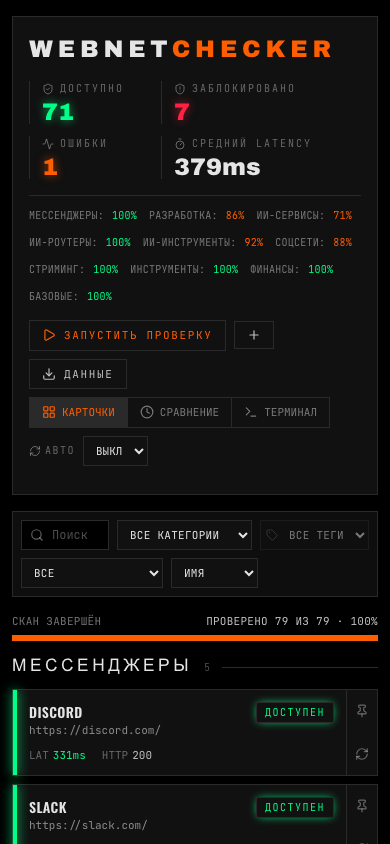
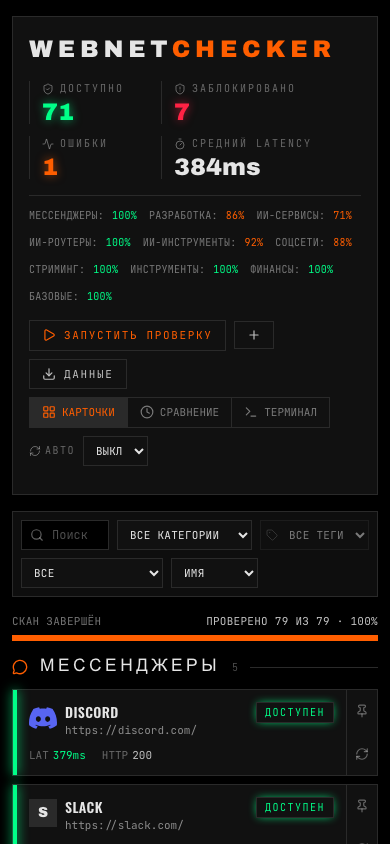
docs: скриншоты с бренд-логотипами и актуальный README
- все 5 скриншотов пересняты scripts/screenshots.mjs на prod-сборке
  после реального скана 79 целей;
- README: фича бренд-логотипов (Simple Icons, WCAG-guard), npm run logos,
  73 теста, предупреждение про allowedDevOrigins (localhost vs 127.0.0.1),
  BrandLogo в архитектуре; план сессии обновлён

diff --git a/.zcode/plans/plan-sess_1853f54d-c017-47ad-9fdd-dc2eb15446e4.md b/.zcode/plans/plan-sess_1853f54d-c017-47ad-9fdd-dc2eb15446e4.md
@@ -1,50 +1,34 @@
-# WebNetChecker: фиксы + документация + скриншоты + апгрейд пакетов
+# Бренд-логотипы в карточках WebNetChecker
 
-Решения согласованы: DEPLOY.md — **Vercel + Docker/VPS**; SCAN_API_KEY — **прокси-роут `/api/scan/run`**; тег-фильтр — **добавляем в UI**; **git init** перед правками. Порядок: пакеты → фиксы по спринтам → скриншоты/README/DEPLOY → Obsidian → финальные гейты. Скриншоты делаем ПОСЛЕ фиксов UI, чтобы они показывали исправленный интерфейс.
+**Согласовано:** фирменные цвета логотипов (с luminance-guard для тёмных на тёмном), кастомные цели без иконки — буква-аватар; favicon-прокси не делаем (ноль новых сетевых поверхностей, CSP не трогаем — SVG инлайном).
 
-## Этап 0 — Базовая линия (~15 мин)
-1. `git init`, стартовый коммит «baseline: аудит 2026-10-03» (сейчас код чистый — идеальная точка отката). Убрать мусор из коммита: `.next_old/` удалить (и из диска), `.next*/`, `tsconfig.tsbuildinfo` — в `.gitignore`.
-2. Обновление пакетов: `npm update` внутри диапазонов (возьмёт **next 16.3.8 — security-патчи 16.3.6+16.3.8**, zod 4.6.5, undici 8.11.2, vitest 5.0.3, @playwright/test 1.63.0, TS/eslint — последние 5.x/9.x) + `lucide-react@1.50.0` (мажор 0.x→1.x; все импортированные иконки проверит typecheck). **Не берём мажоры** TypeScript 7.0 и ESLint 10 — Next 16.3 валидирован под 5.x/9.x, риск неоправдан.
-3. Сразу же фикс `#wnc-eslint-noise`: `.next_old/**`, `.omo/**` в eslint ignores — гейт линта оживёт для всех следующих этапов.
-4. Гейты: `typecheck / lint / test / build` → коммит «chore: upgrade deps».
+## Шаг 0 — Верификация источника (честно)
+Устанавливаем `simple-icons` как **devDependency** и делаем источником истины **локальный npm-пакет** (офлайн, авторитетный) — CDN-эхо в этой сессии были противоречивыми, поэтому CDN не используем вовсе. Скрипт отчётит полный список «покрыто / не покрыто» (ожидаю пробелы среди AI-брендов: OrcaRouter, Requesty, Suno, Runway, Character.AI, Poe, Midjourney и др. — все они изящно уходят в букву-аватар).
 
-## Этап 1 — Спринт А: безопасность и гейты (~1.5 ч, коммит на каждый фикс)
-1. **🔴 `#wnc-xff-bypass`** — `getClientKey`: env `TRUST_PROXY` (по умолчанию `0`): при `1` (за nginx/Vercel) берём **последнее** значение XFF-цепочки, при `0` — XFF не доверенный. В обоих случаях добавляем **глобальный резервный бакет** `RATE_LIMIT_GLOBAL` (дефолт 60/мин): подмена заголовков вращает пер-ключи, но глобальный кап не обойти. Unit-тесты на оба бакета + smoke-curl из аудита (11-й запрос с разными XFF → 429).
-2. **`#wnc-key-ui-gap`** — рефактор: логика POST `/api/scan` переезжает в `src/lib/checker/scan-handler.ts`; новый роут `/api/scan/run` (same-origin проверка + ключ подставляется серверно, не покидает сервер); `useScan` переключается на `/api/scan/run`. UI работает при любой конфигурации ключа.
-3. **`#wnc-latest-leak`** — `Cache-Control: no-store` на `/latest`; в глобальный кэш пишем **только результаты seed-целей** (фильтр по множеству `SEED_TARGETS` при `cache.set`): кастомные цели больше не утекают между посетителями.
-4. **`#wnc-green-batch`** — `timingSafeEqual` для сравнения ключа; флаг `closed` из `cancel()` перед `enqueue` в стриме; `AbortError` не ретраится как timeout; замер latency до drain тела.
-5. **`#wnc-env-docs-drift`** — `opengraph-image.tsx` → `runtime = "nodejs"`; README/env.example: `SCAN_MAX_TARGETS=200` (код оставляем); «no any» станет правдой; в «Возможности» — импорт списка целей.
-6. Гейты → коммит.
+## Шаг 1 — Данные (генерация, коммитится)
+- `scripts/generate-brand-logos.mjs`: читает хосты сид-каталога (`services.ts`) + ручной маппинг хост→slug (`brand-logo-slugs.ts`, ~79 записей), резолвит через установленный пакет и генерирует `src/lib/config/brand-logos.generated.ts` — **только реально существующие** иконки: `{ title, hex, path }` по хосту.
+- Скрипт идемпотентен, запуск `npm run logos` при изменении каталога; непокрытые — в stdout и `.scratch/`.
+- Никаких barrel-импортов в рантайме (правило `bundle-barrel-imports`) — сгенерированный файл содержит только использованные иконки.
 
-## Этап 2 — Спринт Б: целостность UI (~2 ч)
-1. **`#wnc-retry-abort`** — guard `isScanning` в `useAutoRefresh` (тик пропускается пока идёт скан); retry/сравнение — изолированный контроллер, не трогающий общий скан и общий прогресс.
-2. **`#wnc-history-poll`** — убрать опрос 500 мс; `beginScan` снапшотит URL-ы скана, история пишется один раз по завершении потока со скоупом этого скана.
-3. **`#wnc-tagfilter-dep`** — `tagFilter` в deps `useMemo`; селект тегов в `FilterBar` (уникальные теги из целей). 
-4. **`#wnc-rejected-lost`** — событие `{ type: "rejected", items }` в `ScanEvent` + панель «Отклонено N: url — причина»; заодно отображение `done.aborted` («скан прерван»).
-5. **`#wnc-card-store`** — узкие селекторы в `ServiceCard` (history[url], togglePin, цель через Map) — убирает ~3600 лишних рендеров за скан.
-6. Unit/e2e-тесты на изменённое; гейты → коммит.
+## Шаг 2 — Компоненты
+- `BrandLogo.tsx`: inline SVG `viewBox="0 0 24 24"`, `fill` = фирменный hex; **luminance-guard**: относительная яркость ниже порога (≈0.35) → серебро `--color-silver` (кейс Apple/GitHub: тёмный логотип на тёмном не теряется); `aria-hidden`.
+- `LetterAvatar.tsx`: первая буква имени, фон из палитры дашборда по хешу хоста (neon-dim/ok-dim/blocked-dim/steel), тот же размер.
+- `resolveBrandLogo(host)` → BrandLogo | LetterAvatar.
 
-## Этап 3 — Спринт В: a11y, перф, полировка (~2.5 ч)
-1. **`#wnc-a11y-dialog`** — Escape + ловушка фокуса + блокировка скролла в диалоге; закрытие меню по Escape/клику-вне; тултип ошибки с фокусом; динамический aria-label pin («Открепить»).
-2. **`#wnc-import-crash`** — Zod-схема на импорт JSON/CSV (переиспользуем `targetSchema`), отчёт «добавлено N, отбраковано M».
-3. **`#wnc-terminal-ok`** — единая `terminalLine` (лейбл статуса вместо «OK»), удалить дубль из стора; **`#wnc-terminal-growth`** — кап лога 500 строк + `content-visibility`.
-4. **`#wnc-progress-initial`** — стейт «Ожидание запуска» до первого скана.
-5. **`#wnc-seed-dead`** — удалить мёртвый `/api/seed` (+ README/архитектура); **`#wnc-bulk-limit`** — кап импорта = `NEXT_PUBLIC_SCAN_MAX_TARGETS` (дефолт 200) + валидация до добавления.
-6. **`#wnc-repo-hygiene`** — `import type`, Map вместо find, type predicate в StatsHeader, Zod-валидация hydrate-ответа, дедуп нормализации сидов.
-7. Гейты → коммит.
+## Шаг 3 — Интеграция
+- `ServiceCard`: логотип 28px слева от имени.
+- `CategorySection`: lucide-иконка категории в заголовке из уже существующего поля `CATEGORIES.icon` — заодно закрывает документированный задел «иконки категорий».
+- `ComparisonView`: 16px логотипы в списке сервисов.
+- `TerminalView` не трогаем (там статусные эмодзи).
 
-## Этап 4 — Скриншоты + README + DEPLOY.md (~2 ч)
-1. Скрипт `scripts/screenshots.mjs` (Playwright, chromium): поднимает собранное приложение, запускает реальный скан каталога, снимает: дашборд-карточки, терминальный режим, сравнение (2 выбранные цели), диалог добавления, мобильный вид 390×844 → `docs/screenshots/*.png`.
-2. **README.md** — реструктурируем: hero-скриншот, возможности, скриншоты режимов, быстрый старт, env-таблица (актуальная, с TRUST_PROXY/RATE_LIMIT_GLOBAL), архитектура, деплой-ссылка на DEPLOY.md, политика апгрейдов.
-3. **DEPLOY.md** (создаём): раздел Vercel (env, Upstash, домен) + раздел Docker/VPS: Dockerfile (output standalone) + `.dockerignore` + `docker-compose.yml` + nginx-сниппет с X-Forwarded-For и `TRUST_PROXY=1`, systemd-альтернатива, бэкапы, обновления.
-4. Гейты → коммит «docs».
+## Шаг 4 — Качество
+- Unit-тесты: известный хост → логотип; неизвестный → аватар; luminance-guard (чистый `#000000` → серебро).
+- Бандл: сравнить размер первой загрузки до/после в выводе `next build` (цель — рост < ~30KB gzip).
+- Гейты: typecheck / lint / test / build / e2e.
 
-## Этап 5 — Obsidian: полная документация проекта (~1.5 ч)
-1. Создать по образцу LLMRouter: **01_Фичи** (каталог функций с состоянием), **04_Архитектура** (ядро checker, поток данных NDJSON, SSRF-схема, решения/компромиссы — со ссылками на файл:строка), **05_Деплой** (сводка + env-таблица, ссылка на DEPLOY.md), **10_Ранбуки** (гейты, smoke-команды curl, процедура апгрейда пакетов, переснятие скриншотов).
-2. Обновить: **02_Баги** (закрытия ✅ с датами), **03_План** (чекбоксы спринтов), **00_Индекс** (карта + паспорт состояния: версии, гейты, тесты), **08_Журнал_работ** (записи этапов).
-3. Иконки новым заметкам, проверка через Obsidian CLI.
+## Шаг 5 — Документация
+- README: секция «Логотипы» (Simple Icons; атрибуция — логотипы являются торговыми марками соответствующих владельцев, набор иконок CC0), переснятие скриншотов (`node scripts/screenshots.mjs`), свежий hero-скрин.
+- Obsidian: `01_Фичи` (+фича, закрыть задел «иконки категорий»), `04_Архитектура` (генерация + luminance-guard), `00_Индекс` (паспорт), `08_Журнал` (запись).
+- Коммиты: фича → тесты/гейты → скриншоты/доки.
 
-## Этап 6 — Финальная приёмка
-Все гейты (`typecheck/lint/test/build/e2e` + smoke curl + проверка скриншотов), финальный коммит, резюме с перечнем закрытых багов. Obsidian-коммит — по вашей просьбе (правило ваулта: push только явно).
-
-**Оценка суммарно: ~7–8 часов работы.** После каждого этапа — отчёт в чат с результатами гейтов.
+**Оценка: ~1.5–2 ч.**

diff --git a/README.md b/README.md
@@ -14,12 +14,12 @@
 
 ## Режимы интерфейса
 
-| Карточки | Терминал | Сравнение |
-| --- | --- | --- |
+| Карточки                                          | Терминал                                             | Сравнение                                            |
+| ------------------------------------------------- | ---------------------------------------------------- | ---------------------------------------------------- |
 | ![Карточки](docs/screenshots/dashboard-cards.png) | ![Терминал](docs/screenshots/dashboard-terminal.png) | ![Сравнение](docs/screenshots/dashboard-compare.png) |
 
-| Диалог добавления целей | Мобильный вид |
-| --- | --- |
+| Диалог добавления целей                            | Мобильный вид                                       |
+| -------------------------------------------------- | --------------------------------------------------- |
 | ![Диалог](docs/screenshots/add-targets-dialog.png) | ![Мобильный](docs/screenshots/dashboard-mobile.png) |
 
 ## Возможности
@@ -28,7 +28,7 @@
 - **NDJSON-стриминг в реальном времени** — карточки обновляются по мере завершения каждого чека; обрыв соединения корректно останавливает скан на сервере.
 - **SSRF-защита уровня DNS** — undici Agent с валидацией каждого разрешённого адреса в момент соединения (закрывает DNS-rebinding), блокировка приватных диапазонов, cloud metadata, localhost. Редиректы не следуются.
 - **Двухуровневый rate limiting** — пер-клиент (10/мин) + глобальный резервный бакет (60/мин), который не обойти ротацией `X-Forwarded-For`.
-- **Тёмный техно-дашборд** — карточки со статусами и sparkline latency, терминальный режим, сравнение двух целей, фильтры (категория, тег, статус), поиск, сортировка.
+- **Тёмный техно-дашборд** — карточки со статусами и sparkline latency, бренд-логотипы сервисов и иконки категорий (генерируются из [Simple Icons](https://simpleicons.org/) в билд-тайм, без внешних запросов в рантайме; тёмные логотипы осветляются по WCAG-люминанс), терминальный режим, сравнение двух целей, фильтры (категория, тег, статус), поиск, сортировка.
 - **Seed-каталог 79 сервисов** в 11 категориях + свои цели: по одной, списком или из `.txt/.csv`, импорт/экспорт JSON/CSV.
 - **Изолированные мини-сканы** — «перепроверить» и «сравнить» не прерывают общий скан; автообновление (выкл / 30 с / 1 мин / 5 мин) ждёт завершения текущего скана.
 - **История проверок** в localStorage (последние 20 прогонов, скоуп — конкретный скан).
@@ -46,43 +46,49 @@ npm run dev
 
 Откройте <http://localhost:3000> и нажмите **«Запустить проверку»**.
 
+> **Важно именно `localhost`, а не `127.0.0.1` или LAN-IP?** Next 16 блокирует dev-ресурсы
+> (HMR, чанки) для хостов вне `allowedDevOrigins` — страница отрендерится, но не гидратируется
+> и кнопки не будут реагировать. Хосты для dev перечислены в `next.config.ts`
+> (`allowedDevOrigins: ["127.0.0.1"]`); добавьте туда свой LAN-IP при доступе с других устройств.
+
 ## Команды
 
-| Команда | Описание |
-| --- | --- |
-| `npm run dev` | Dev-сервер (Turbopack) |
-| `npm run build` / `npm start` | Продакшн-сборка и запуск |
-| `npm run typecheck` | `tsc --noEmit` |
-| `npm run lint` / `lint:fix` | ESLint 9 (flat config) |
-| `npm test` | Unit-тесты (Vitest, 61 тест) |
-| `npm run test:e2e` | E2E (Playwright, chromium) |
-| `npm run format` | Prettier |
-| `node scripts/screenshots.mjs` | Переснятие скриншотов README |
+| Команда                        | Описание                                                                                |
+| ------------------------------ | --------------------------------------------------------------------------------------- |
+| `npm run dev`                  | Dev-сервер (Turbopack)                                                                  |
+| `npm run build` / `npm start`  | Продакшн-сборка и запуск                                                                |
+| `npm run typecheck`            | `tsc --noEmit`                                                                          |
+| `npm run lint` / `lint:fix`    | ESLint 9 (flat config)                                                                  |
+| `npm test`                     | Unit-тесты (Vitest, 73 теста)                                                           |
+| `npm run test:e2e`             | E2E (Playwright, chromium)                                                              |
+| `npm run format`               | Prettier                                                                                |
+| `npm run logos`                | Регенерация бренд-логотипов из simple-icons (`src/lib/config/brand-logos.generated.ts`) |
+| `node scripts/screenshots.mjs` | Переснятие скриншотов README (нужен `npm run build`)                                    |
 
 ## Переменные окружения
 
-| Переменная | По умолчанию | Описание |
-| --- | --- | --- |
-| `CHECK_TIMEOUT_MS` | `3000` | Таймаут одного HTTP-чека (500–30000) |
-| `SCAN_MAX_TARGETS` | `200` | Максимум целей за один скан (1–1000) |
-| `SCAN_CONCURRENCY` | `10` | Пул конкурентности (1–32) |
-| `RATE_LIMIT_SCANS` | `10` | Сканов в минуту с одного клиента |
-| `RATE_LIMIT_WINDOW_MS` | `60000` | Окно rate limit (мс) |
-| `RATE_LIMIT_GLOBAL` | `60` | Глобальный резервный бакет (сканов/мин на процесс) |
-| `TRUST_PROXY` | `0` | `1` — за доверенным прокси (nginx/Vercel): клиент = последний элемент `X-Forwarded-For` |
-| `CHECK_RETRIES` | `1` | Ретраи при таймауте (0–3) |
-| `NEXT_PUBLIC_SITE_URL` | `http://localhost:3000` | Для metadata / OG / sitemap |
-| `NEXT_PUBLIC_SCAN_MAX_TARGETS` | `200` | Зеркало `SCAN_MAX_TARGETS` для капов в UI |
-| `SCAN_API_KEY` | *(пусто)* | Ключ для **внешних** вызовов `POST /api/scan` (`x-scan-key`). Дашборду не нужен — он ходит через `/api/scan/run` |
-| `UPSTASH_REDIS_REST_URL/TOKEN` | *(пусто)* | Задел под распределённый rate limit (Vercel) |
+| Переменная                     | По умолчанию            | Описание                                                                                                         |
+| ------------------------------ | ----------------------- | ---------------------------------------------------------------------------------------------------------------- |
+| `CHECK_TIMEOUT_MS`             | `3000`                  | Таймаут одного HTTP-чека (500–30000)                                                                             |
+| `SCAN_MAX_TARGETS`             | `200`                   | Максимум целей за один скан (1–1000)                                                                             |
+| `SCAN_CONCURRENCY`             | `10`                    | Пул конкурентности (1–32)                                                                                        |
+| `RATE_LIMIT_SCANS`             | `10`                    | Сканов в минуту с одного клиента                                                                                 |
+| `RATE_LIMIT_WINDOW_MS`         | `60000`                 | Окно rate limit (мс)                                                                                             |
+| `RATE_LIMIT_GLOBAL`            | `60`                    | Глобальный резервный бакет (сканов/мин на процесс)                                                               |
+| `TRUST_PROXY`                  | `0`                     | `1` — за доверенным прокси (nginx/Vercel): клиент = последний элемент `X-Forwarded-For`                          |
+| `CHECK_RETRIES`                | `1`                     | Ретраи при таймауте (0–3)                                                                                        |
+| `NEXT_PUBLIC_SITE_URL`         | `http://localhost:3000` | Для metadata / OG / sitemap                                                                                      |
+| `NEXT_PUBLIC_SCAN_MAX_TARGETS` | `200`                   | Зеркало `SCAN_MAX_TARGETS` для капов в UI                                                                        |
+| `SCAN_API_KEY`                 | _(пусто)_               | Ключ для **внешних** вызовов `POST /api/scan` (`x-scan-key`). Дашборду не нужен — он ходит через `/api/scan/run` |
+| `UPSTASH_REDIS_REST_URL/TOKEN` | _(пусто)_               | Задел под распределённый rate limit (Vercel)                                                                     |
 
 ## API
 
-| Эндпоинт | Назначение |
-| --- | --- |
-| `POST /api/scan` | Публичный скан (NDJSON-стрим). Для внешних вызовов: cron и скрипты. При заданном `SCAN_API_KEY` требует заголовок `x-scan-key` |
-| `POST /api/scan/run` | Эндпоинт дашборда: только same-origin, ключ подставляется серверно. UI работает при любой конфигурации ключа |
-| `GET /api/scan/latest` | Кэш последнего скана (только seed-цели; no-store). Кастомные цели между посетителями не утекают |
+| Эндпоинт               | Назначение                                                                                                                     |
+| ---------------------- | ------------------------------------------------------------------------------------------------------------------------------ |
+| `POST /api/scan`       | Публичный скан (NDJSON-стрим). Для внешних вызовов: cron и скрипты. При заданном `SCAN_API_KEY` требует заголовок `x-scan-key` |
+| `POST /api/scan/run`   | Эндпоинт дашборда: только same-origin, ключ подставляется серверно. UI работает при любой конфигурации ключа                   |
+| `GET /api/scan/latest` | Кэш последнего скана (только seed-цели; no-store). Кастомные цели между посетителями не утекают                                |
 
 Формат стрима — NDJSON: события `start` → `result`* → `rejected?` → `done`.
 
@@ -115,7 +121,7 @@ src/
 ├── hooks/                         # useScan (main/isolated), useFilters,
 │                                  # useAutoRefresh, useHistory
 └── components/                    # ServiceCard, TerminalView, ComparisonView,
-                                   # FilterBar, Toolbar, ExportMenu, AddTargetDialog…
+                                   # BrandLogo, FilterBar, Toolbar, ExportMenu, AddTargetDialog…
 ```
 
 ## Безопасность
